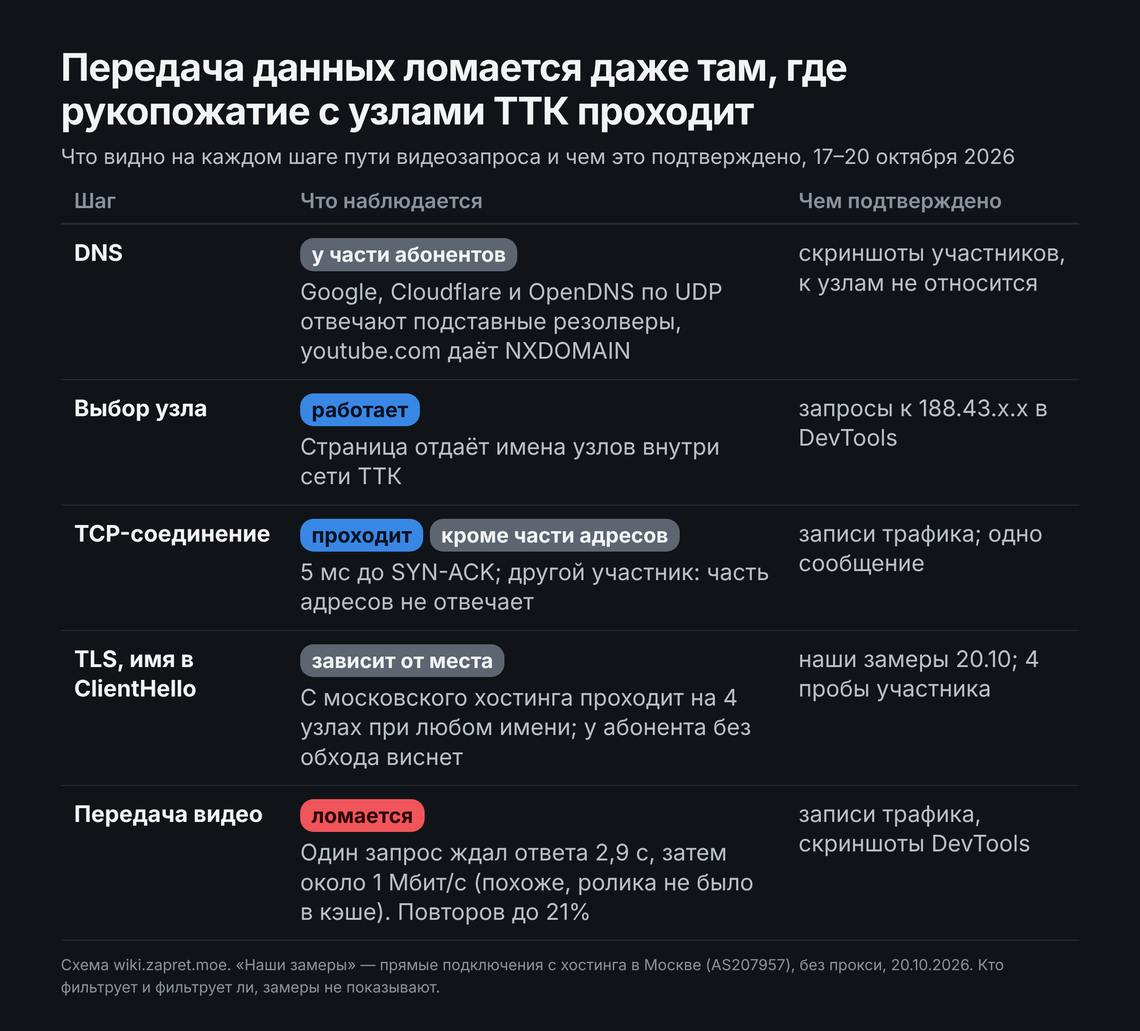
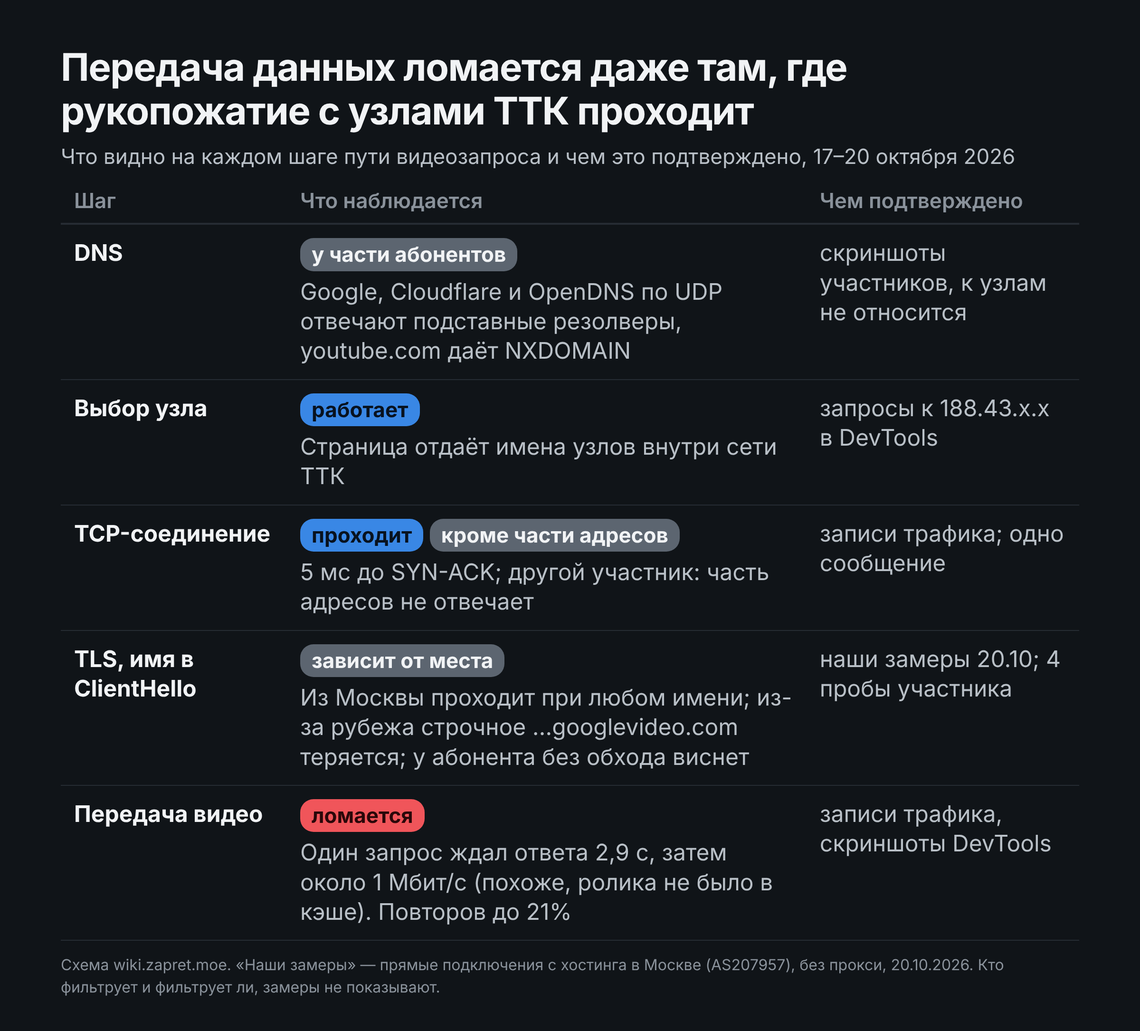
Кэши Google у ТТК: контрольный замер из-за рубежа показал фильтр по имени googlevideo.com
Тот же узел проверен с сервера в Нидерландах: HTTP на порту 80 отвечает всегда, а приветствие TLS с именем …googlevideo.com строчными буквами молча теряется (с заглавными буквами, bare googlevideo.com и посторонними именами проходит), разрез приветствия не помогает, из Москвы проходят все имена. Фильтр затрагивает и часть других российских адресов, значит, дело не в кэшах как таковых. Добавлены таблица имён и пояснения в заметку про GGC, абзац в основную статью, обновлена матрица доказательств.

diff --git a/DPI/ggc-googlevideo-how-it-works.md b/DPI/ggc-googlevideo-how-it-works.md
@@ -35,7 +35,8 @@ link: https://redirector.gvt1.com/report_mapping?di=no
 - Видео YouTube приходит не с `youtube.com`, а с адресов `*.googlevideo.com`. Для популярных роликов Google ставит собственные серверы-кэши прямо в сетях провайдеров: это Google Global Cache (GGC).
 - Какой узел достанется, решает страница воспроизведения по IP клиента, поэтому прокси или VPN для `*.youtube.com` меняют набор узлов, а правила для `*.googlevideo.com` часто не нужны.
 - Четыре адреса из блока `GOOGLE-TTK-NET` с хостинга в Москве дали одинаковую картину: TCP-соединение за 2–99 мс, TLS-рукопожатие с сертификатом `*.googlevideo.com` при любом имени в запросе (28 проб из 28), на чужой запрос быстрый ответ HTTP 400; имена узлов из обсуждения превращаются в адреса именно этих блоков. Узлы как серверы живы и не придираются к имени.
-- Значит, зависание, о котором пишут абоненты, возникает на их стороне пути или в передаче данных, а не потому, что узел «мёртв».
+- Из-за рубежа картина другая: на приветствие с именем `…googlevideo.com`, написанным строчными буквами, те же узлы молчат (и ряд других российских адресов тоже), а HTTP на порту 80 отвечает всегда. Заглавные буквы в имени рукопожатие пропускают. Разрез приветствия не помогает.
+- Значит, зависание, о котором пишут абоненты, возникает на пути до узла или в передаче данных, а не потому, что узел «мёртв».
 
 ## Что такое кэш Google у провайдера
 
@@ -96,6 +97,23 @@ link: https://redirector.gvt1.com/report_mapping?di=no
 > [!warning] Чего эти замеры не показывают
 > Это одна точка наблюдения (хостинг в Москве) и один день. Замеры не показывают, что происходит у абонентов ТТК и как узлы отдают ролики, которых нет в кэше: чтобы получить такое видео с конкретного кэша, нужна ссылка, выданная именно для этого кластера, а YouTube выдаёт её по IP клиента. Поэтому вывод «узел жив и не придирается к имени» относится только к рукопожатию и первому ответу.
 
+## Контрольный замер из-за рубежа: имя `googlevideo.com` строчными буквами теряется
+
+Результат из Москвы нельзя читать как «узел всегда отвечает»: тот же узел проверен ещё и из-за границы, с сервера Zapret DNS в Нидерландах (AS41745, настоящие задержки 50–140 мс). Картина другая.
+
+- **HTTP на порту 80 отвечает всегда.** Запрос `GET /generate_204` с любым заголовком `Host` (`rr1---sn-….googlevideo.com`, `googlevideo.com`, `www.google.com`, `example.org`, вовсе без `Host`) возвращает `204 No Content` и из Москвы, и из Нидерландов, за доли секунды.
+- **HTTPS из-за рубежа теряется по имени.** TCP-соединение с узлами `188.43.65.140` и `188.43.61.141` устанавливается, но на приветствие TLS с именем вида `rr1---sn-ug5onuxaxjvh-v8cz.googlevideo.com` ответа нет вовсе (5 секунд). С именами `googlevideo.com` (без имени слева), `www.youtube.com`, `www.google.com`, `ya.ru` и даже `rr1---sn-ug5onuxaxjvh-v8cz.example.com` рукопожатие проходит. Из Москвы проходят все имена.
+- **Правило зависит от регистра.** Стоит изменить буквы в `googlevideo.com`, и рукопожатие проходит: `…GOOGLEVIDEO.COM`, `…GoogleVideo.com` и даже `…googlevideo.COM` (заглавными только `COM`) прошли, а `RR1---SN-….googlevideo.com` (заглавная только левая часть) и `rr1---sn-….googlevideo.com.` (точка в конце) по-прежнему теряются. Не проходят и другие имена вида `x.googlevideo.com`, `r1.googlevideo.com`, `manifest.googlevideo.com`. Не проходит то, что оканчивается на строчное `.googlevideo.com`; имена `googlevideo.net`, `xgooglevideo.com` и `….googlevideo.com.example.org` не затронуты.
+- **Разрез приветствия не помогает.** Приветствие, разрезанное на два и три TCP-сегмента (до имени, посреди имени, внутри `googlevideo.com`), теряется так же, как целое. Значит, на пути стоит устройство, которое собирает поток, а не смотрит один пакет.
+- **Это не свойство узла.** Приветствие с именем `rr1---sn-….googlevideo.com` из Нидерландов молча теряется и на части других российских адресов: у `ya.ru` (`5.255.255.242`) на пяти попытках из пяти, у других адресов `ya.ru`, `mail.ru`, `rt.ru` и `gosuslugi.ru` на отдельных запусках; к зарубежным серверам (`google.com`, `example.org`) оно проходит, а адрес `74.125.110.168` из семейства Google отвечает на любое имя. Есть и российские адреса, к которым это же приветствие проходит (`mail.ru`, `90.156.232.4`). Значит, дело не в кэшах как таковых: узлы ТТК попадают под правило потому, что они российские и называются `googlevideo.com`.
+- **Запись пакетов на стороне Нидерландов** для потерянного приветствия показывает: рукопожатие TCP проходит, подтверждение первого сегмента (1584 байта) приходит с адреса узла, после этого ничего не отвечают: следующий сегмент в 184 байта остаётся без подтверждения и клиент пересылает его заново. Для приветствия с заглавными буквами ответ приходит сразу. Из записи не видно, кто именно шлёт подтверждение, узел или устройство на пути.
+
+![[ggc-googlevideo-sni-case-matrix.png]]
+
+Что из этого следует. Первое: сообщение «кэш недоступен через VPN, а с другого провайдера доступен, и по HTTP всегда доступен» совпадает с замерами для узлов ТТК. Выход VPN за рубежом — зарубежный источник, и его приветствие с именем `…googlevideo.com` в этом направлении теряется, а HTTP на порту 80 проходит. Второе: приём «пустить через VPN только `*.googlevideo.com`» обречён, когда плеер получил от `youtube.com` российские узлы; надёжнее, чтобы и страница воспроизведения, и сами видеоузлы шли через один выход, тогда плеер получает узлы того же региона, что и выход. Третье: правило нечувствительно к разрезу, но чувствительно к регистру, поэтому «простая нарезка» из Zapret в этом направлении не поможет, а смена регистра имени (достаточно заглавных букв в `COM`) в замере помогла. Это не рекомендация и не проверенный обход: клиентская программа должна уметь менять регистр имени в приветствии, а у браузера такой возможности нет. Проверить гипотезу на своём канале можно командами `openssl s_client -connect <адрес>:443 -servername rr1---sn-….googlevideo.com` и такой же командой с `…googlevideo.COM`: если первая молчит, а вторая отвечает, на пути стоит такое же правило.
+
+Чего замеры не показывают. Где именно стоит устройство (на границе, в сети ТТК или рядом с узлами), чьё оно и действует ли то же правило внутри сети ТТК для абонентов, неизвестно: замер идёт только от двух точек и только по направлению «из-за рубежа». Часть результатов нестабильна (одно и то же имя то проходит, то теряется): это похоже на несколько путей с разным оборудованием. Адреса кэшей «Ростелекома» в Санкт-Петербурге не проверялись: их адресов нет, а по имени узла их из открытых данных не найти.
+
 ## QUIC и откат на TCP
 
 Плеер YouTube умеет получать видео двумя способами: по QUIC (протокол HTTP/3 поверх UDP, порт 443) и по обычному TCP с шифрованием TLS. Он сначала пробует QUIC и, если ответа нет в течение нескольких секунд, откатывается на TCP, а затем периодически снова возвращается к QUIC. Для обходов блокировок это важная деталь: стратегия, настроенная только для TCP, не помогает, пока плеер ждёт тайм-аут QUIC. Участник из Республики Коми выяснил, что адресов кэшей ТТК нет в списках Zapret, поэтому его правила для UDP вообще не срабатывали на трафик к ним. О том, как три области Zapret (`YouTube TCP`, `YouTube QUIC`, `GoogleVideo`) делят эту работу, написано в заметке [[Zapret/youtube|YouTube в Zapret]].
@@ -115,7 +133,7 @@ link: https://redirector.gvt1.com/report_mapping?di=no
 - [Обзор Runnin4ik/ggc-russia на GitHub](https://github.com/Runnin4ik/ggc-russia) — компиляция по GGC в России, цифры расчётные
 - Служебная страница Google, которую участники используют для проверки кластера: https://redirector.gvt1.com/report_mapping?di=no
 - Форум ntc.party, тема от 17 октября 2026 об отдаче YouTube через разные кэши `googlevideo.com`: прямой ссылки нет, форум недоступен с сервера, который собирает вики
-- Собственные замеры 20 октября 2026 года с хостинга в Москве (AS207957): TCP, TLS и HTTP к четырём адресам блока `GOOGLE-TTK-NET`
+- Собственные замеры 20 октября 2026 года с хостинга в Москве (AS207957) и с сервера Zapret DNS в Нидерландах (AS41745): TCP, TLS (разные имена и регистр, разрез приветствия, запись пакетов) и HTTP к узлам блока `GOOGLE-TTK-NET` и к контрольным адресам
 
 ## 📚 См. также
 

diff --git a/DPI/ttk-youtube-ggc-october-2026.md b/DPI/ttk-youtube-ggc-october-2026.md
@@ -104,7 +104,7 @@ link: https://github.com/Flowseal/zapret-discord-youtube/issues/18162
 
 **IP-адрес.** О блокировке по адресу есть одно сообщение: участник форума с ником Xunlei пишет, что часть адресов узлов не отвечает на `SYN`, хотя те же адреса доступны с российского VPS, а соседние адреса с одинаковым суффиксом в имени могут отвечать. Наши замеры из Москвы такую картину не воспроизводят: все четыре проверенных адреса отвечают. Это не опровергает сообщение (адреса и точки наблюдения разные), но и не подтверждает его. У автора записей нужный адрес отвечает за 5 мс, и для него блок по IP не действует. Поэтому блокировка по IP-адресу в лучшем случае затрагивает часть адресов, и общей причиной сбоя её назвать нельзя.
 
-**Имя в запросе (SNI).** Здесь стоит рассуждать аккуратнее. Узел одинаково принимает любое имя: из Москвы он завершает рукопожатие и с `googlevideo.com`, и с `ya.ru`, и с `example.org`. Значит, если у абонента зависание зависит от имени в запросе, причина лежит не в узле, а в чём-то на пути. Более того, сервер собирает TCP-поток целиком: ему безразлично, пришёл `ClientHello` одним пакетом или кусками, а поддельные пакеты с неверным номером он отбрасывает. Поэтому всё, что в этом месте меняют обходом (куски, поддельные пакеты), меняет поведение не сервера, а промежуточного устройства. Это самое сильное звено: то, что Zapret вообще помогал абонентам ТТК до 17 октября и в записях рукопожатие проходит, указывает на устройство на пути, которое разбирает `ClientHello`. Прямое подтверждение пока слабое: [участник темы Flowseal привёл таблицу](https://github.com/Flowseal/zapret-discord-youtube/issues/18162#issuecomment-6257920883), по которой рукопожатие с `188.43.65.12` и именем `rr…googlevideo.com` висит без обхода (0 из 4) и проходит с обходом (3 из 3), а с `www.google.com` и `ya.ru` проходит всегда; он сам указал, что анализ вёл вместе с ИИ-моделью. Надёжный способ проверить самому описан в разделе про Zapret ниже.
+**Имя в запросе (SNI).** Здесь стоит рассуждать аккуратнее. Узел одинаково принимает любое имя: из Москвы он завершает рукопожатие и с `googlevideo.com`, и с `ya.ru`, и с `example.org`. Значит, если у абонента зависание зависит от имени в запросе, причина лежит не в узле, а в чём-то на пути. Контрольный замер из-за рубежа (сервер в Нидерландах) эту мысль подтверждает прямо: на приветствие с именем `…googlevideo.com`, написанным строчными буквами, те же узлы и ряд других российских адресов молчат, а с заглавными буквами в `COM`, с `googlevideo.net` или `ya.ru` рукопожатие проходит; разрез приветствия на части не помогает, HTTP на порту 80 отвечает всегда. Подробности и таблица — в заметке [[DPI/ggc-googlevideo-how-it-works|про устройство GGC]]. Это фильтр по имени на пути из-за рубежа, чувствительный к регистру; видят ли его абоненты внутри сети ТТК, этот замер не показывает. Более того, сервер собирает TCP-поток целиком: ему безразлично, пришёл `ClientHello` одним пакетом или кусками, а поддельные пакеты с неверным номером он отбрасывает. Поэтому всё, что в этом месте меняют обходом (куски, поддельные пакеты), меняет поведение не сервера, а промежуточного устройства. Это самое сильное звено: то, что Zapret вообще помогал абонентам ТТК до 17 октября и в записях рукопожатие проходит, указывает на устройство на пути, которое разбирает `ClientHello`. Прямое подтверждение пока слабое: [участник темы Flowseal привёл таблицу](https://github.com/Flowseal/zapret-discord-youtube/issues/18162#issuecomment-6257920883), по которой рукопожатие с `188.43.65.12` и именем `rr…googlevideo.com` висит без обхода (0 из 4) и проходит с обходом (3 из 3), а с `www.google.com` и `ya.ru` проходит всегда; он сам указал, что анализ вёл вместе с ИИ-моделью. Надёжный способ проверить самому описан в разделе про Zapret ниже.
 
 **Передача данных.** Это место, где ломается по записям трафика, и ни SNI, ни IP тут не при чём: соединение к этому моменту установлено. Доводов против версии «ограничитель скорости, привязанный к соединению» два. В записи 64 пять запросов подряд на одном соединении получили ответ за 8–12 мс и 6,5 МБ за 12 секунд, то есть ограничителя на этом соединении не было. В записи 63 на том же соединении один запрос прождал 2,86 секунды, но остальные до него получили быстрый ответ. Ограничитель на соединении так бы не сработал, а различие между запросами внутри одного соединения лучше объясняется самим запросом: какой-то ролик есть на узле, а какого-то нет, и тогда узлу приходится ждать данные (вывод по косвенным признакам, а не наблюдение).
 
